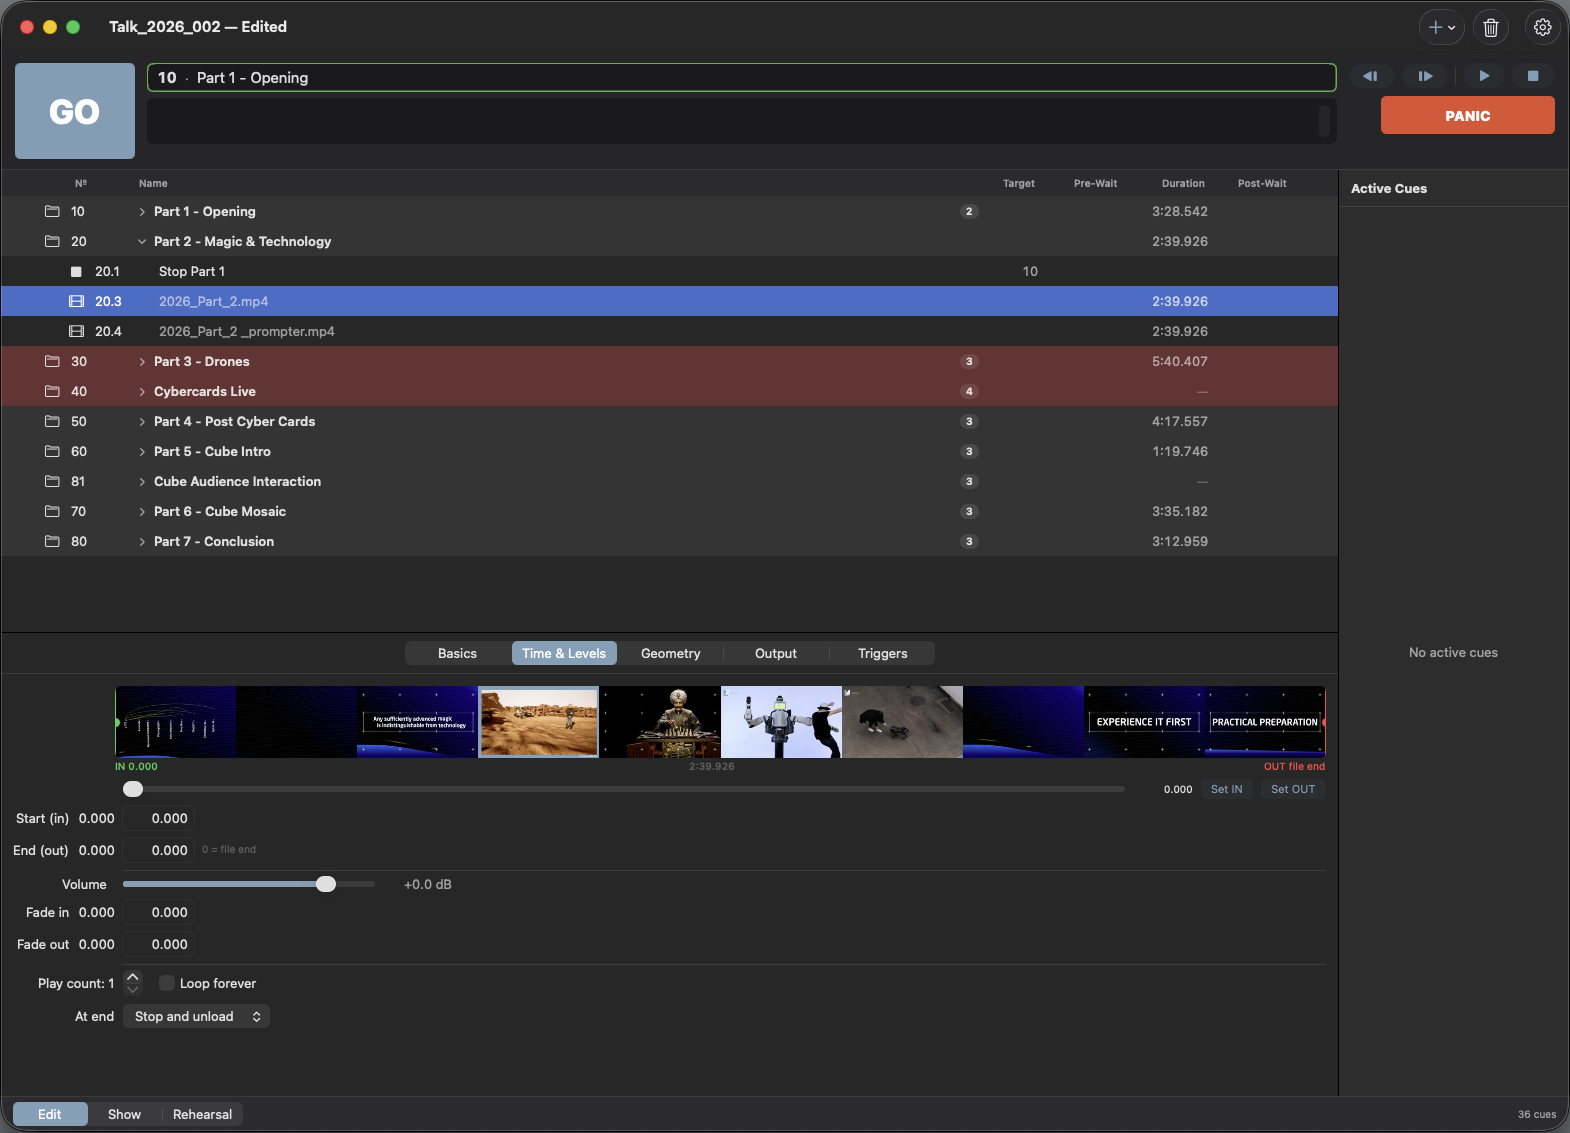
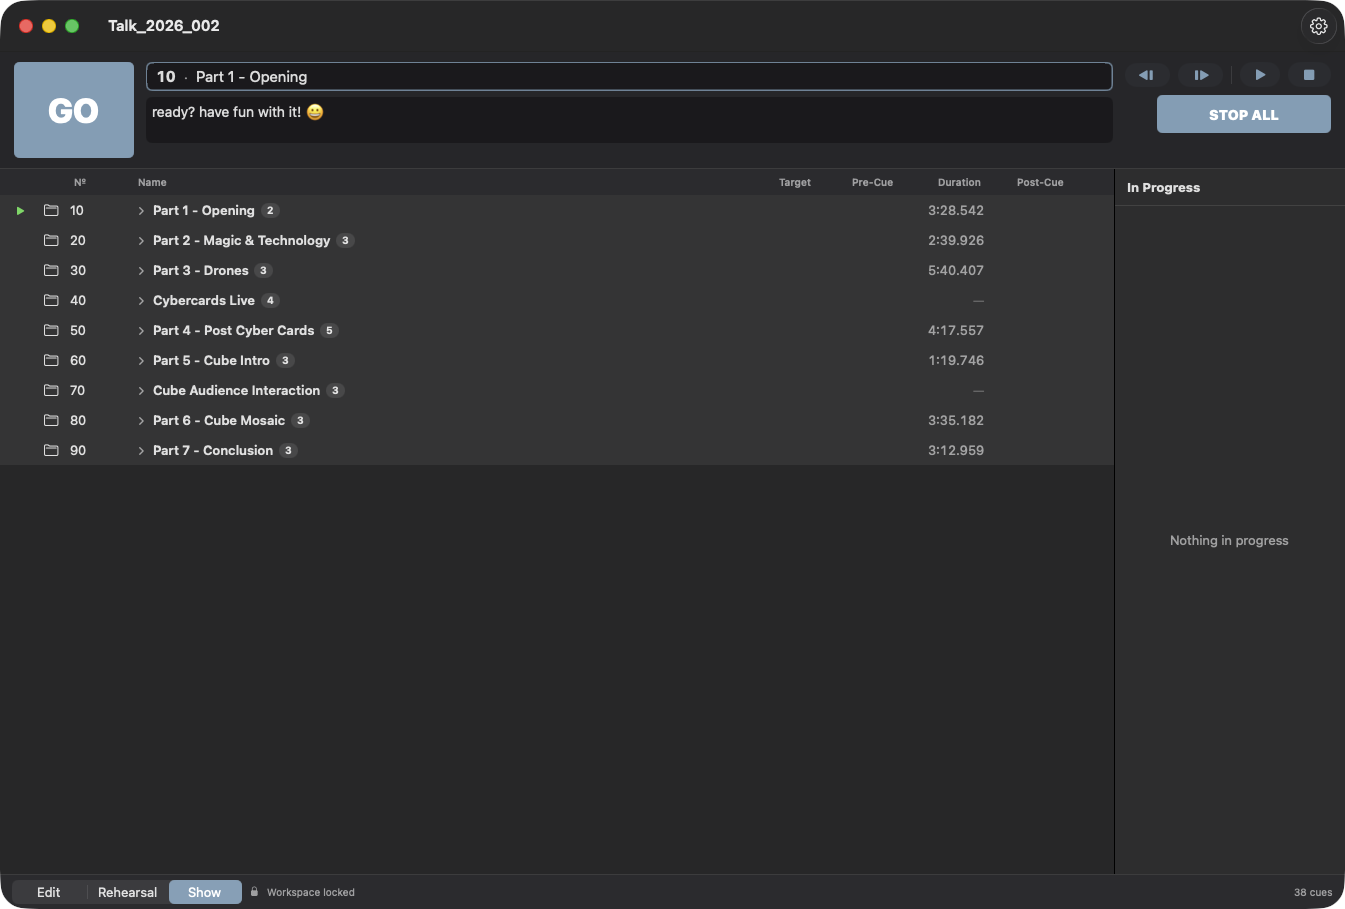
Virtual webcam monitor lives exactly as long as the feed; fresh README screenshot
The monitor panel now survives workspace-mode switches while the feed is
active (closeAllPreviews spares it) and closes when the feed stops or
the camera deactivates — gracefully deferred while cues still render
into it. UI screenshot updated to the current look (blue transport,
In Progress panel, Pre-Cue/Post-Cue, reordered mode bar).

diff --git a/Sources/VideoEngineKit/OutputWindowManager.swift b/Sources/VideoEngineKit/OutputWindowManager.swift
@@ -145,13 +145,30 @@ public final class OutputWindowManager {
 
     /// Close every preview window (leaving rehearsal mode). Players still
     /// holding leases have been stopped by the mode switch; their later
-    /// releaseLayer calls no-op harmlessly.
-    public func closeAllPreviews() {
+    /// releaseLayer calls no-op harmlessly. Previews in `keeping` survive —
+    /// the virtual-webcam monitor must outlive mode switches while feeding.
+    public func closeAllPreviews(keeping: Set<UUID> = []) {
         for (target, entry) in entries {
-            if case .preview = target {
+            if case .preview(let id, _) = target, !keeping.contains(id) {
                 entry.window.orderOut(nil)
                 entry.window.close()
                 entries[target] = nil
+            }
+        }
+    }
+
+    /// Close one preview: unpin, and close now unless cues still render
+    /// into it (then it closes when the last lease is released).
+    public func closePreview(id: UUID) {
+        for (target, var entry) in entries {
+            guard case .preview(let previewID, _) = target, previewID == id else { continue }
+            entry.pinned = false
+            if entry.leaseCount <= 0 {
+                entry.window.orderOut(nil)
+                entry.window.close()
+                entries[target] = nil
+            } else {
+                entries[target] = entry
             }
         }
     }

diff --git a/Sources/StageWizardApp/AppModel.swift b/Sources/StageWizardApp/AppModel.swift
@@ -49,7 +49,9 @@ final class AppModel {
         guard newMode != mode else { return }
         transport.stopAll()
         if mode == .rehearsal {
-            OutputWindowManager.shared.closeAllPreviews()
+            OutputWindowManager.shared.closeAllPreviews(
+                keeping: virtualCamera.isFeeding ? [VirtualCameraManager.monitorPreviewID] : []
+            )
         }
         mode = newMode
         if newMode == .rehearsal {

diff --git a/Sources/StageWizardApp/VirtualCameraManager.swift b/Sources/StageWizardApp/VirtualCameraManager.swift
@@ -132,6 +132,7 @@ final class VirtualCameraManager: NSObject {
 
     func stopFeeding() {
         isFeeding = false
+        OutputWindowManager.shared.closePreview(id: Self.monitorPreviewID)
         if let resizeObserver {
             NotificationCenter.default.removeObserver(resizeObserver)
             self.resizeObserver = nil